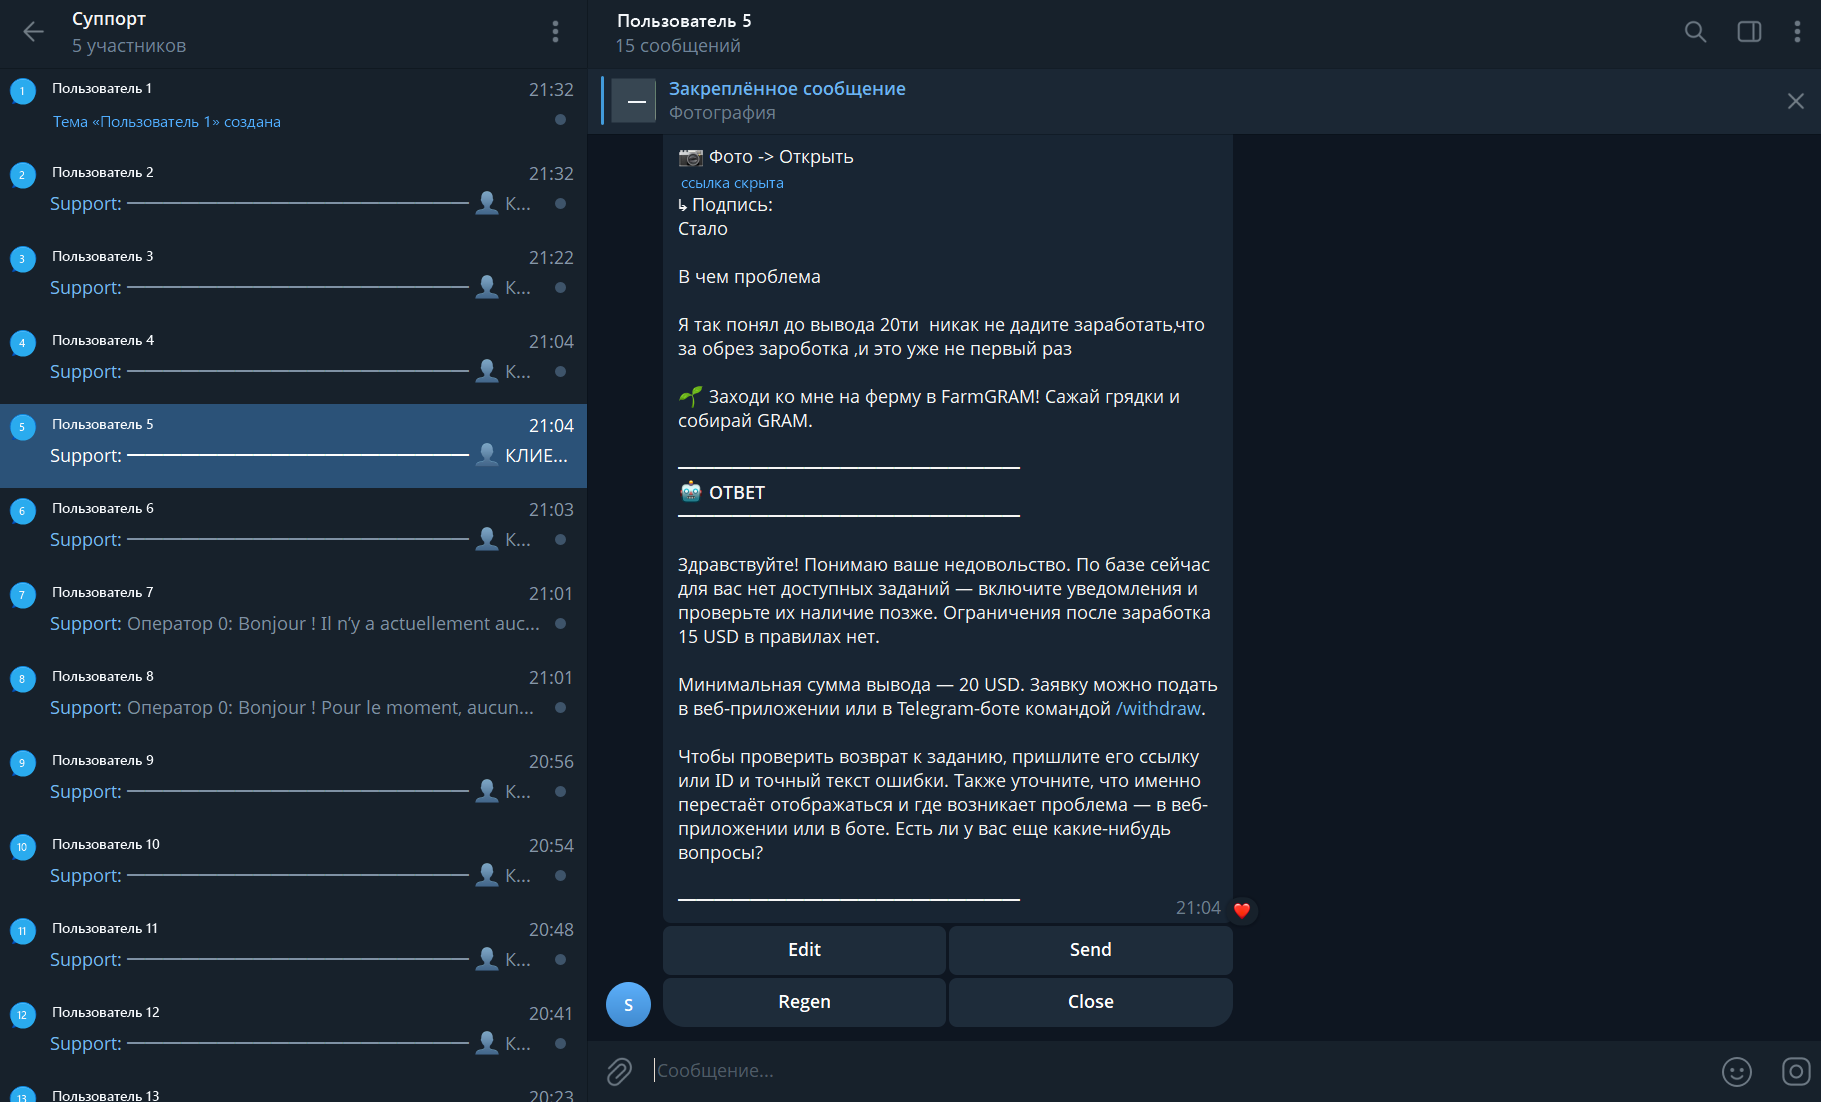
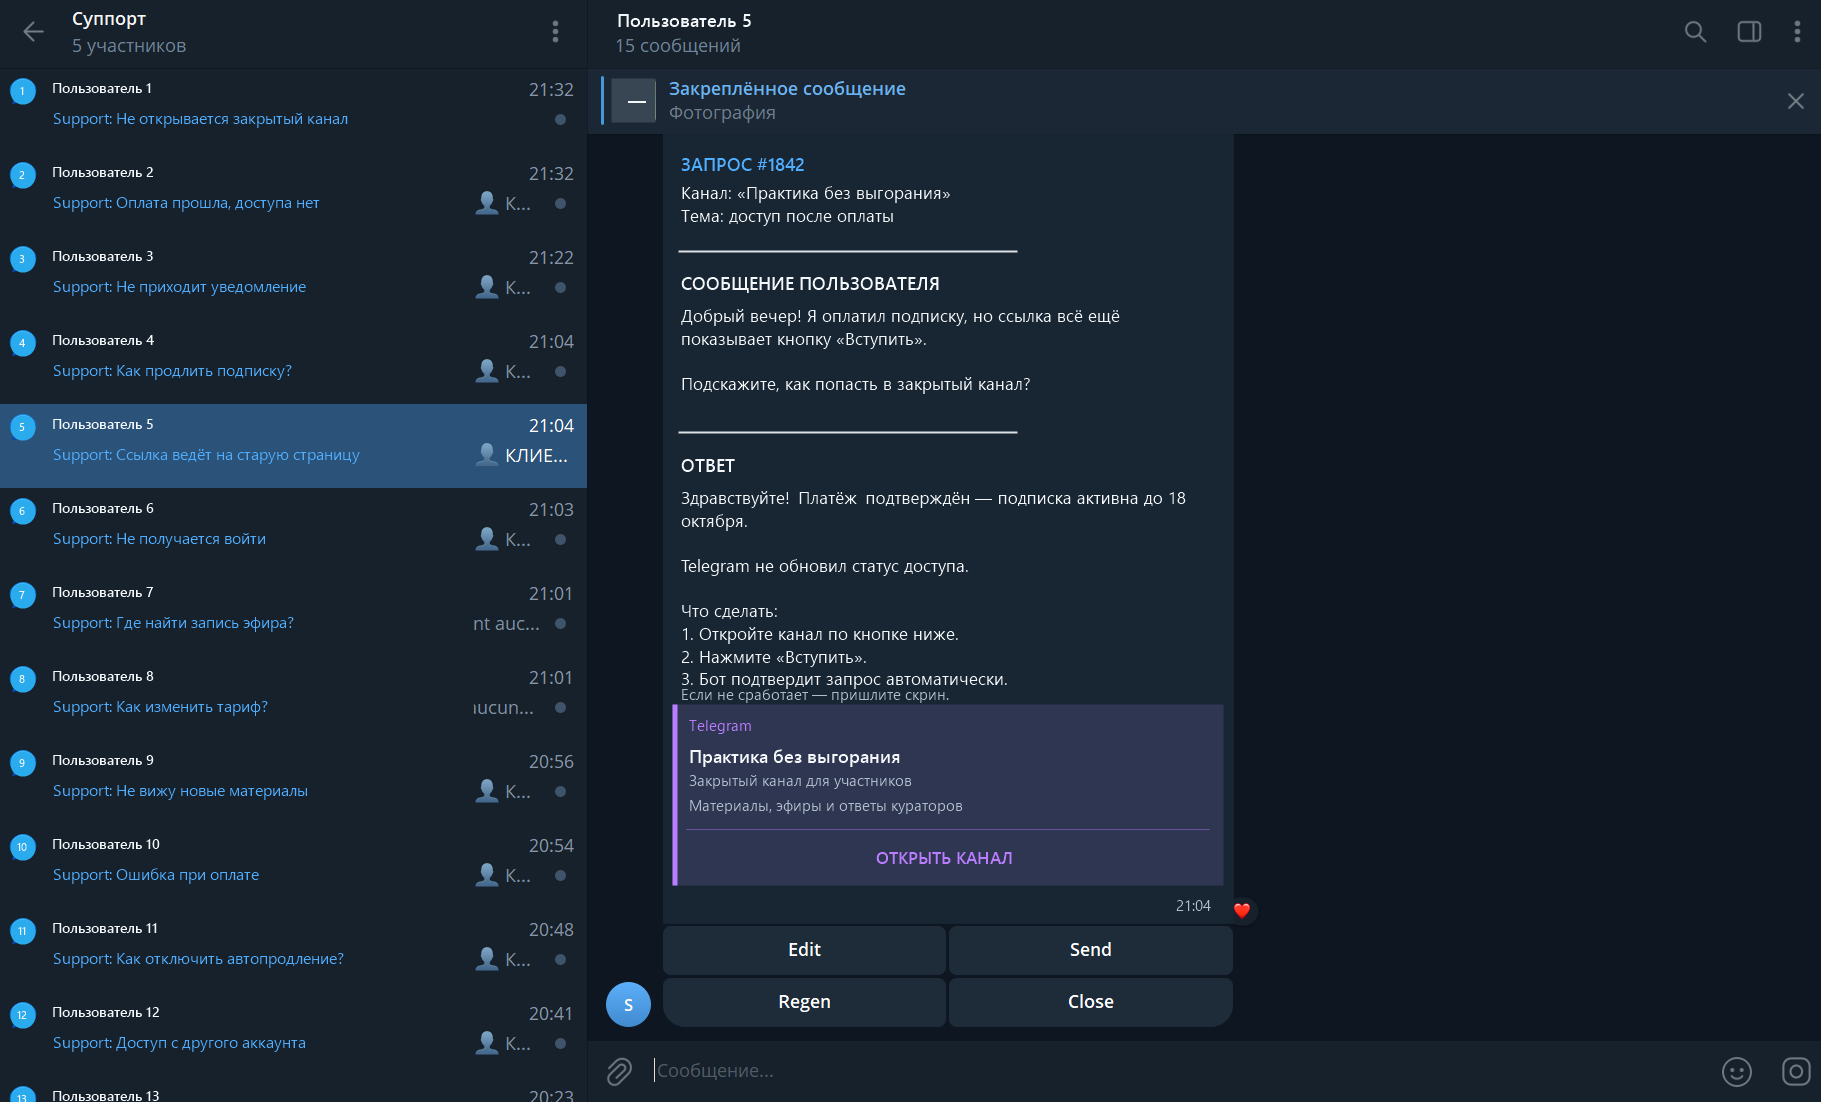
Replace support chat with fictional channel scenario

diff --git a/review/support-rag.html b/review/support-rag.html
@@ -1,1 +1,1 @@
-<!doctype html><html lang="ru"><meta charset="utf-8"><meta name="viewport" content="width=device-width,initial-scale=1"><title>AI Support — Telegram-first кейс</title><style>*{box-sizing:border-box}body{margin:0;background:#eeeae3;color:#292923;font:16px/1.6 Arial,sans-serif}main{max-width:1600px;margin:auto;padding:24px}a{color:inherit}aside{font-size:14px;margin-bottom:20px}.real{margin:0}.real img{width:100%;display:block;border-radius:8px}.real figcaption,.media figcaption{font-size:14px;margin:10px 0 24px}.section-label{margin:42px 0 14px;font-size:12px;letter-spacing:.14em;text-transform:uppercase}.media{display:grid;grid-template-columns:2fr 1fr;gap:32px;align-items:start}figure{margin:0;min-width:0}video{width:100%;display:block}.note{font-size:14px;max-width:900px;margin:32px 0;color:#55554e}footer{font-size:14px;padding:24px 0}@media(max-width:760px){main{padding:12px}.media{grid-template-columns:1fr;gap:12px}}</style><link rel="stylesheet" href="devices.css?v=fit-audit"><main><aside>AI Support · реальный Telegram UI обезличен · backend-flow проверен локально · внешних отправок нет.</aside><figure class="real"><img src="../projects/support-rag/assets/telegram-support-sanitized.png?v=telegram-evidence" alt="Обезличенный Telegram-интерфейс поддержки"><figcaption>REAL / SANITIZED · очередь обращений, черновик ответа и действия оператора. Ники, ID и ссылка заменены.</figcaption></figure><p class="section-label">LOCAL VERIFIED WALKTHROUGH</p><div class="media"><figure><div class="device-laptop"><div class="device-display"><video style="--media-ratio:1440/900" controls playsinline preload="metadata" poster="../projects/support-rag/assets/poster-desktop.webp"><source src="../projects/support-rag/assets/master-desktop.mp4" type="video/mp4"></video></div><div class="device-base"></div></div><figcaption>MacBook · FAQ/RAG → источники → черновик → правка → локальный результат</figcaption></figure><figure><div class="device-phone"><video style="--media-ratio:390/844" controls playsinline preload="metadata" poster="../projects/support-rag/assets/poster-mobile.webp"><source src="../projects/support-rag/assets/master-mobile.mp4" type="video/mp4"></video></div><figcaption>iPhone · адаптивная техническая demo-панель, не Telegram UI</figcaption></figure></div><p class="note">ORIGINAL: Telegram topics, operator drafts, D1/R2 и RAG-пайплайн. VERIFIED: 12 API-сценариев и UI на 390/768/1440. REAL EVIDENCE: переданный пользователем Telegram screenshot. DEMO: локальные retrieval/model adapters и вымышленные обращения; production-отправка отключена.</p><footer><a href="../projects/support-rag/case.md">Факты и границы проверки ↗</a> · <a href="index.html">Все проекты</a></footer></main></html>
+<!doctype html><html lang="ru"><meta charset="utf-8"><meta name="viewport" content="width=device-width,initial-scale=1"><title>AI Support — Telegram-first кейс</title><style>*{box-sizing:border-box}body{margin:0;background:#eeeae3;color:#292923;font:16px/1.6 Arial,sans-serif}main{max-width:1600px;margin:auto;padding:24px}a{color:inherit}aside{font-size:14px;margin-bottom:20px}.real{margin:0}.real img{width:100%;display:block;border-radius:8px}.real figcaption,.media figcaption{font-size:14px;margin:10px 0 24px}.section-label{margin:42px 0 14px;font-size:12px;letter-spacing:.14em;text-transform:uppercase}.media{display:grid;grid-template-columns:2fr 1fr;gap:32px;align-items:start}figure{margin:0;min-width:0}video{width:100%;display:block}.note{font-size:14px;max-width:900px;margin:32px 0;color:#55554e}footer{font-size:14px;padding:24px 0}@media(max-width:760px){main{padding:12px}.media{grid-template-columns:1fr;gap:12px}}</style><link rel="stylesheet" href="devices.css?v=fit-audit"><main><aside>AI Support · реальный Telegram UI · вымышленный безопасный текст · backend-flow проверен локально.</aside><figure class="real"><img src="../projects/support-rag/assets/telegram-support-sanitized.png?v=telegram-evidence" alt="Обезличенный Telegram-интерфейс поддержки"><figcaption>REAL UI / SANITIZED COPY · очередь обращений и действия оператора настоящие; имена, канал и вся переписка заменены вымышленным сценарием техподдержки.</figcaption></figure><p class="section-label">LOCAL VERIFIED WALKTHROUGH</p><div class="media"><figure><div class="device-laptop"><div class="device-display"><video style="--media-ratio:1440/900" controls playsinline preload="metadata" poster="../projects/support-rag/assets/poster-desktop.webp"><source src="../projects/support-rag/assets/master-desktop.mp4" type="video/mp4"></video></div><div class="device-base"></div></div><figcaption>MacBook · FAQ/RAG → источники → черновик → правка → локальный результат</figcaption></figure><figure><div class="device-phone"><video style="--media-ratio:390/844" controls playsinline preload="metadata" poster="../projects/support-rag/assets/poster-mobile.webp"><source src="../projects/support-rag/assets/master-mobile.mp4" type="video/mp4"></video></div><figcaption>iPhone · адаптивная техническая demo-панель, не Telegram UI</figcaption></figure></div><p class="note">ORIGINAL: Telegram topics, operator drafts, D1/R2 и RAG-пайплайн. VERIFIED: 12 API-сценариев и UI на 390/768/1440. REAL EVIDENCE: переданный пользователем Telegram screenshot. DEMO / MOCK: клиент, канал и весь видимый текст переписки. DEMO: локальные retrieval/model adapters и вымышленные обращения; production-отправка отключена.</p><footer><a href="../projects/support-rag/case.md">Факты и границы проверки ↗</a> · <a href="index.html">Все проекты</a></footer></main></html>

diff --git a/projects/support-rag/case.md b/projects/support-rag/case.md
@@ -51,7 +51,7 @@ Master desktop/mobile просмотрены по кадрам. Case QA 320/390/
 
 21 сентября пользователь передал настоящий экран операторской поддержки и подтвердил, что он относится к этому проекту. На нём видны очередь Telegram-диалогов, черновик ответа и действия `Edit`, `Send`, `Regen`, `Close`. Это подтверждает Telegram как реальный пользовательский интерфейс системы; техническая web-панель остаётся только локальным способом проверить backend-ветки.
 
-Перед публикацией экран обезличен без перерисовки продукта: ники и идентификаторы заменены на `Пользователь 1…13`, заголовок активного диалога — на `Пользователь 5`, прямая ссылка и миниатюра закреплённого сообщения скрыты. Текст поддержки, кнопки, структура Telegram и временные метки сохранены. Исходный screenshot находится только в рабочей исследовательской папке и не копируется в публичный репозиторий.
+Перед публикацией экран обезличен: ники и идентификаторы заменены на `Пользователь 1…13`, заголовок активного диалога — на `Пользователь 5`, прямая ссылка и миниатюра закреплённого сообщения скрыты. По запросу автора исходный текст переписки и превью обращений заменены вымышленным сценарием техподдержки закрытого Telegram-канала: оплата подписки, восстановление доступа и ответ оператора. Кнопки, структура Telegram, топики и временные метки сохранены. Исходный screenshot находится только в рабочей исследовательской папке и не копируется в публичный репозиторий.
 
-Статический screenshot подтверждает интерфейс и состояние черновика, но не является записью полного production-flow и не доказывает фактическую отправку сообщения. Desktop/mobile master ниже показывают проверенную backend-логику через явно обозначенный локальный стенд.
+Статический screenshot подтверждает интерфейс и состояние черновика, но показанный клиент, канал и переписка являются DEMO / MOCK и не доказывают фактическую отправку сообщения. Desktop/mobile master ниже показывают проверенную backend-логику через явно обозначенный локальный стенд.
 

diff --git a/PORTFOLIO_CORRECTION_QUEUE.md b/PORTFOLIO_CORRECTION_QUEUE.md
@@ -26,7 +26,7 @@
 22. PP BOT: Telegram/WebApp-first presentation — READY
 23. Живые фото: Telegram evidence после получения материалов — BLOCKED — сайт, сравнение и responsive-видео READY; реальный Telegram flow бота не передан, а по найденному frontend его нельзя достоверно восстановить.
 24. Telegram schedule / рассылка 24/7 — READY
-25. AI Support RAG — READY — пользователь подтвердил реальный Telegram-интерфейс; ники/ID/ссылка обезличены, техническая панель оставлена вторичным доказательством backend-flow.
+25. AI Support RAG — READY — реальный Telegram-интерфейс подтверждён; ники/ID/ссылка обезличены, текст заменён вымышленным сценарием поддержки закрытого канала, техническая панель оставлена вторичным доказательством backend-flow.
 26. LexLegal — READY — реальный Mobirise-архив отделён от согласованного portfolio polish; полный desktop/mobile walkthrough и QA основных разделов сохранены.
 27. Ритм — READY — реальный Next.js-продукт, полный flow привычек/тренировки/журнала/настроек; 58 тестов, build и responsive QA.
 28. Пифпаф — READY — исходный кабинет Reels, импорт/ошибка/повтор/аналитика/таблица и mobile; 56 тестов PASS, 2 SKIP.
